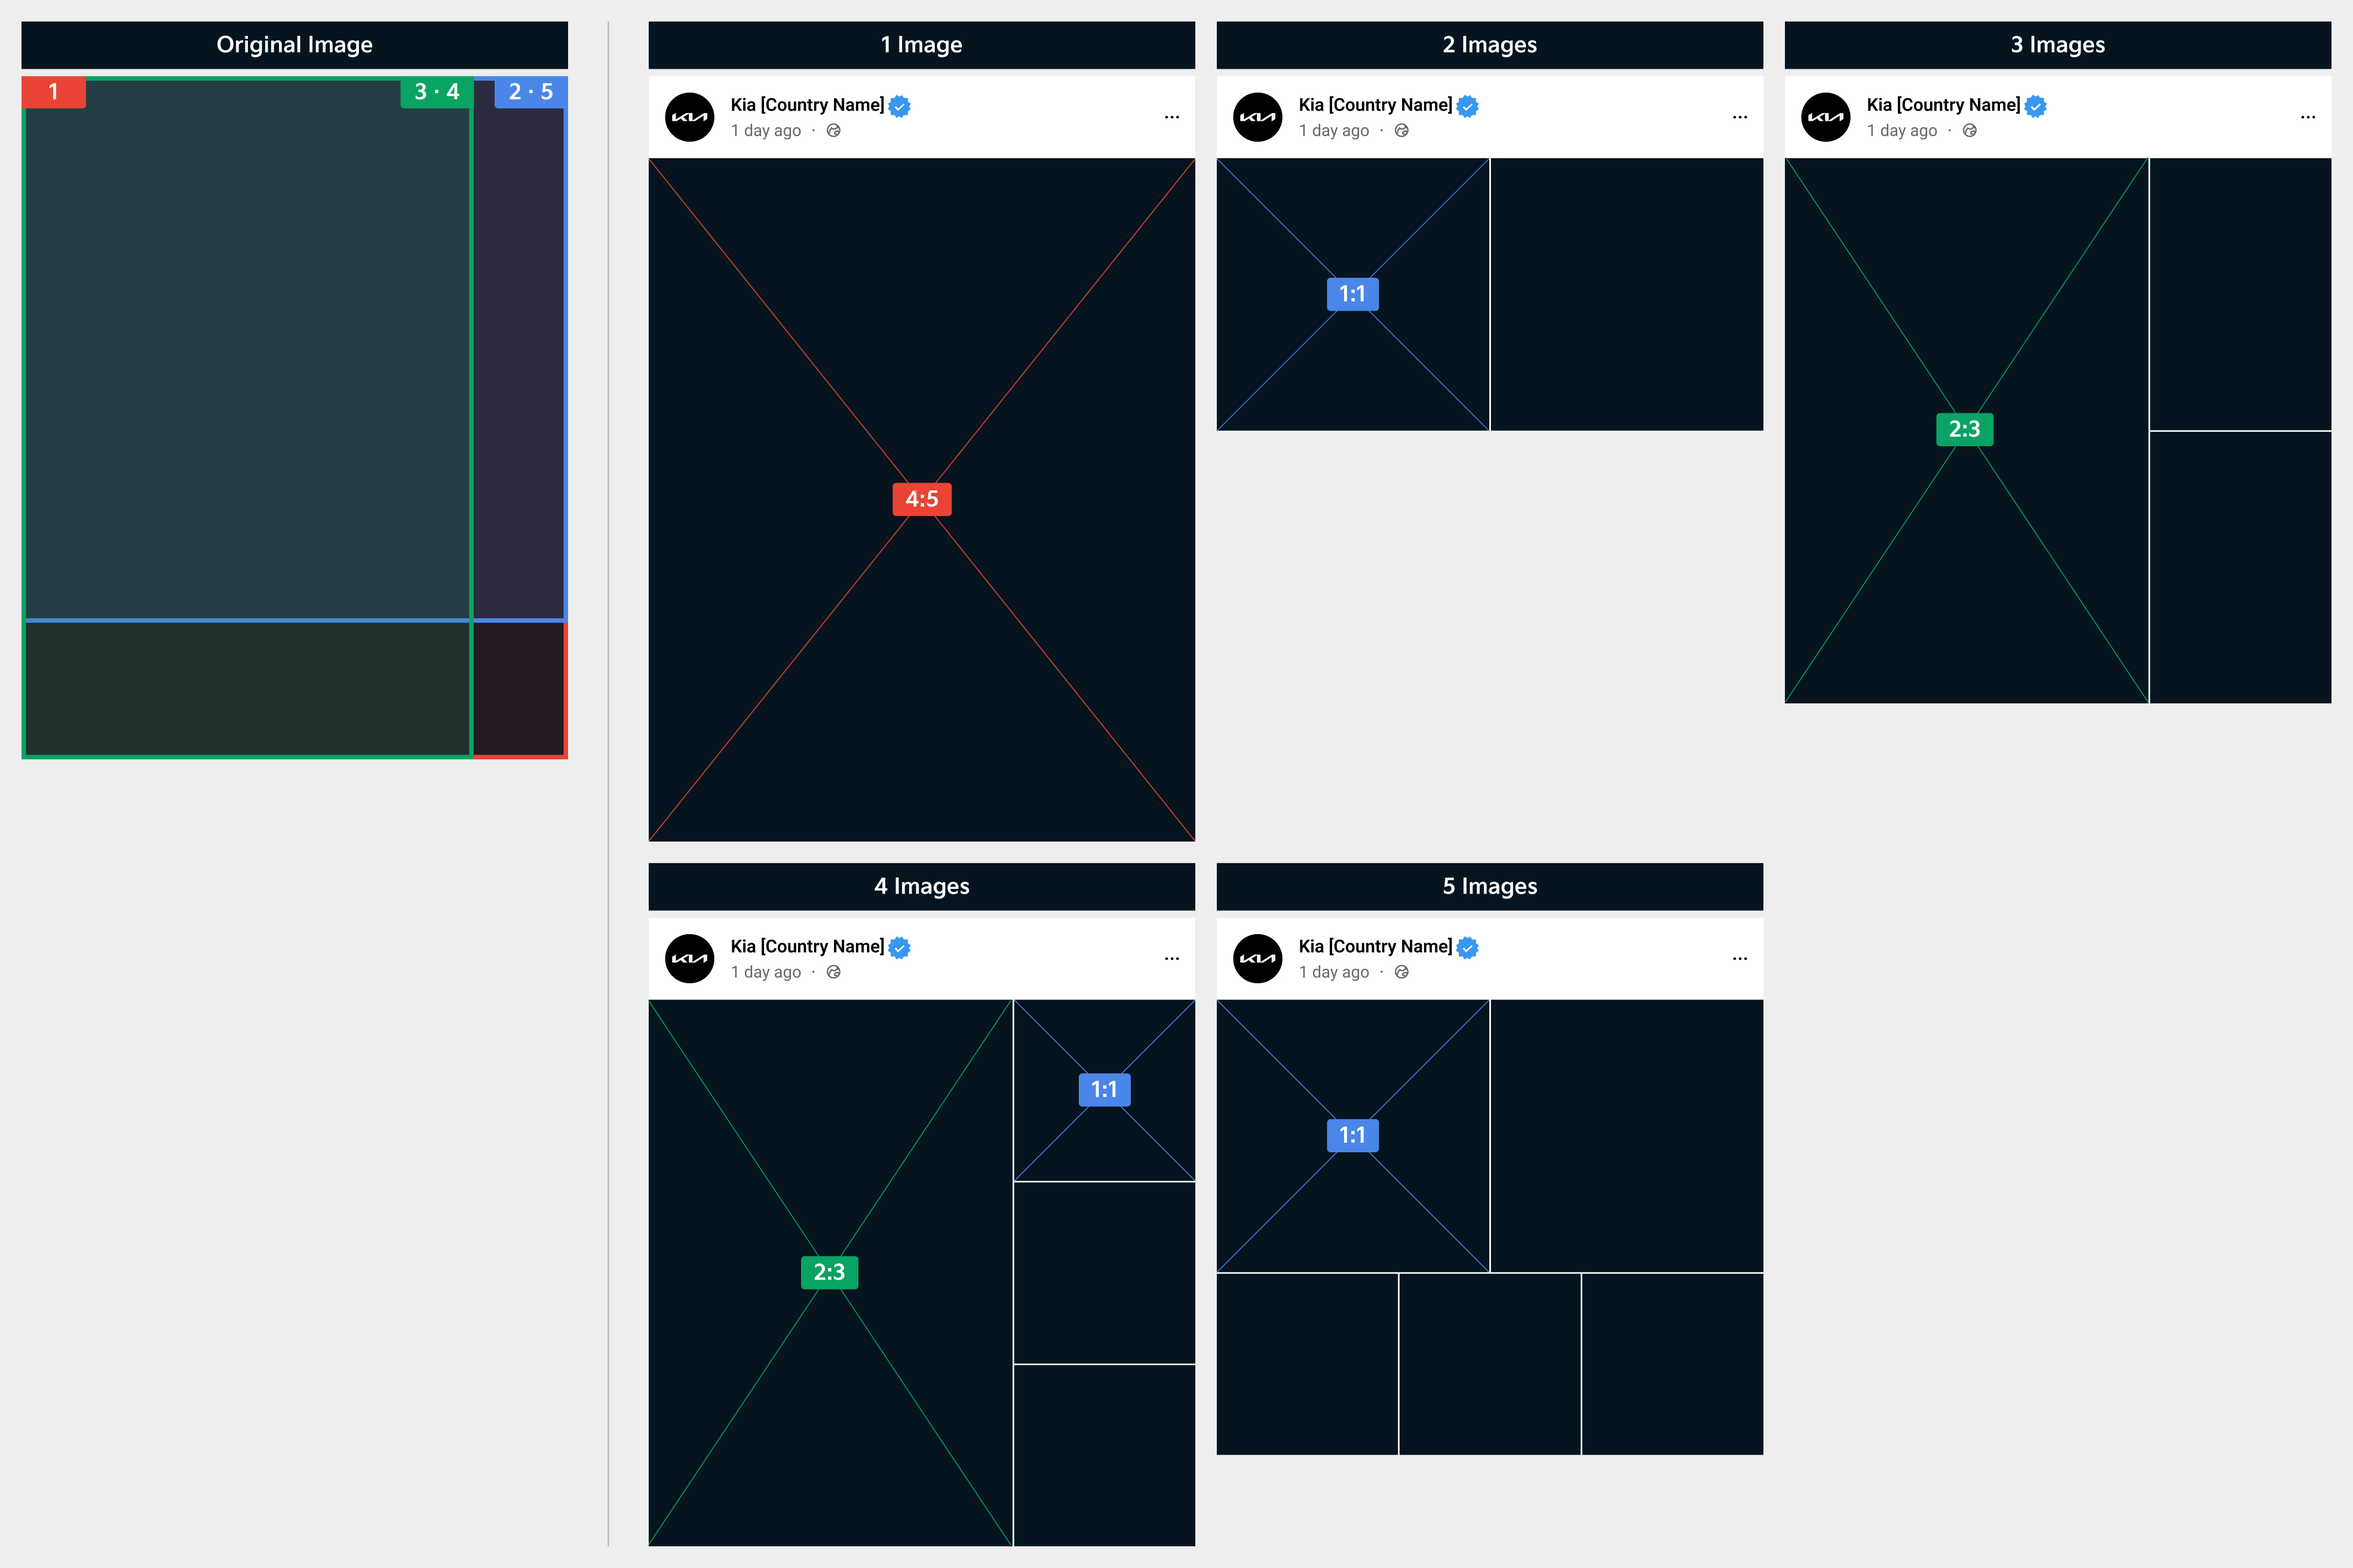
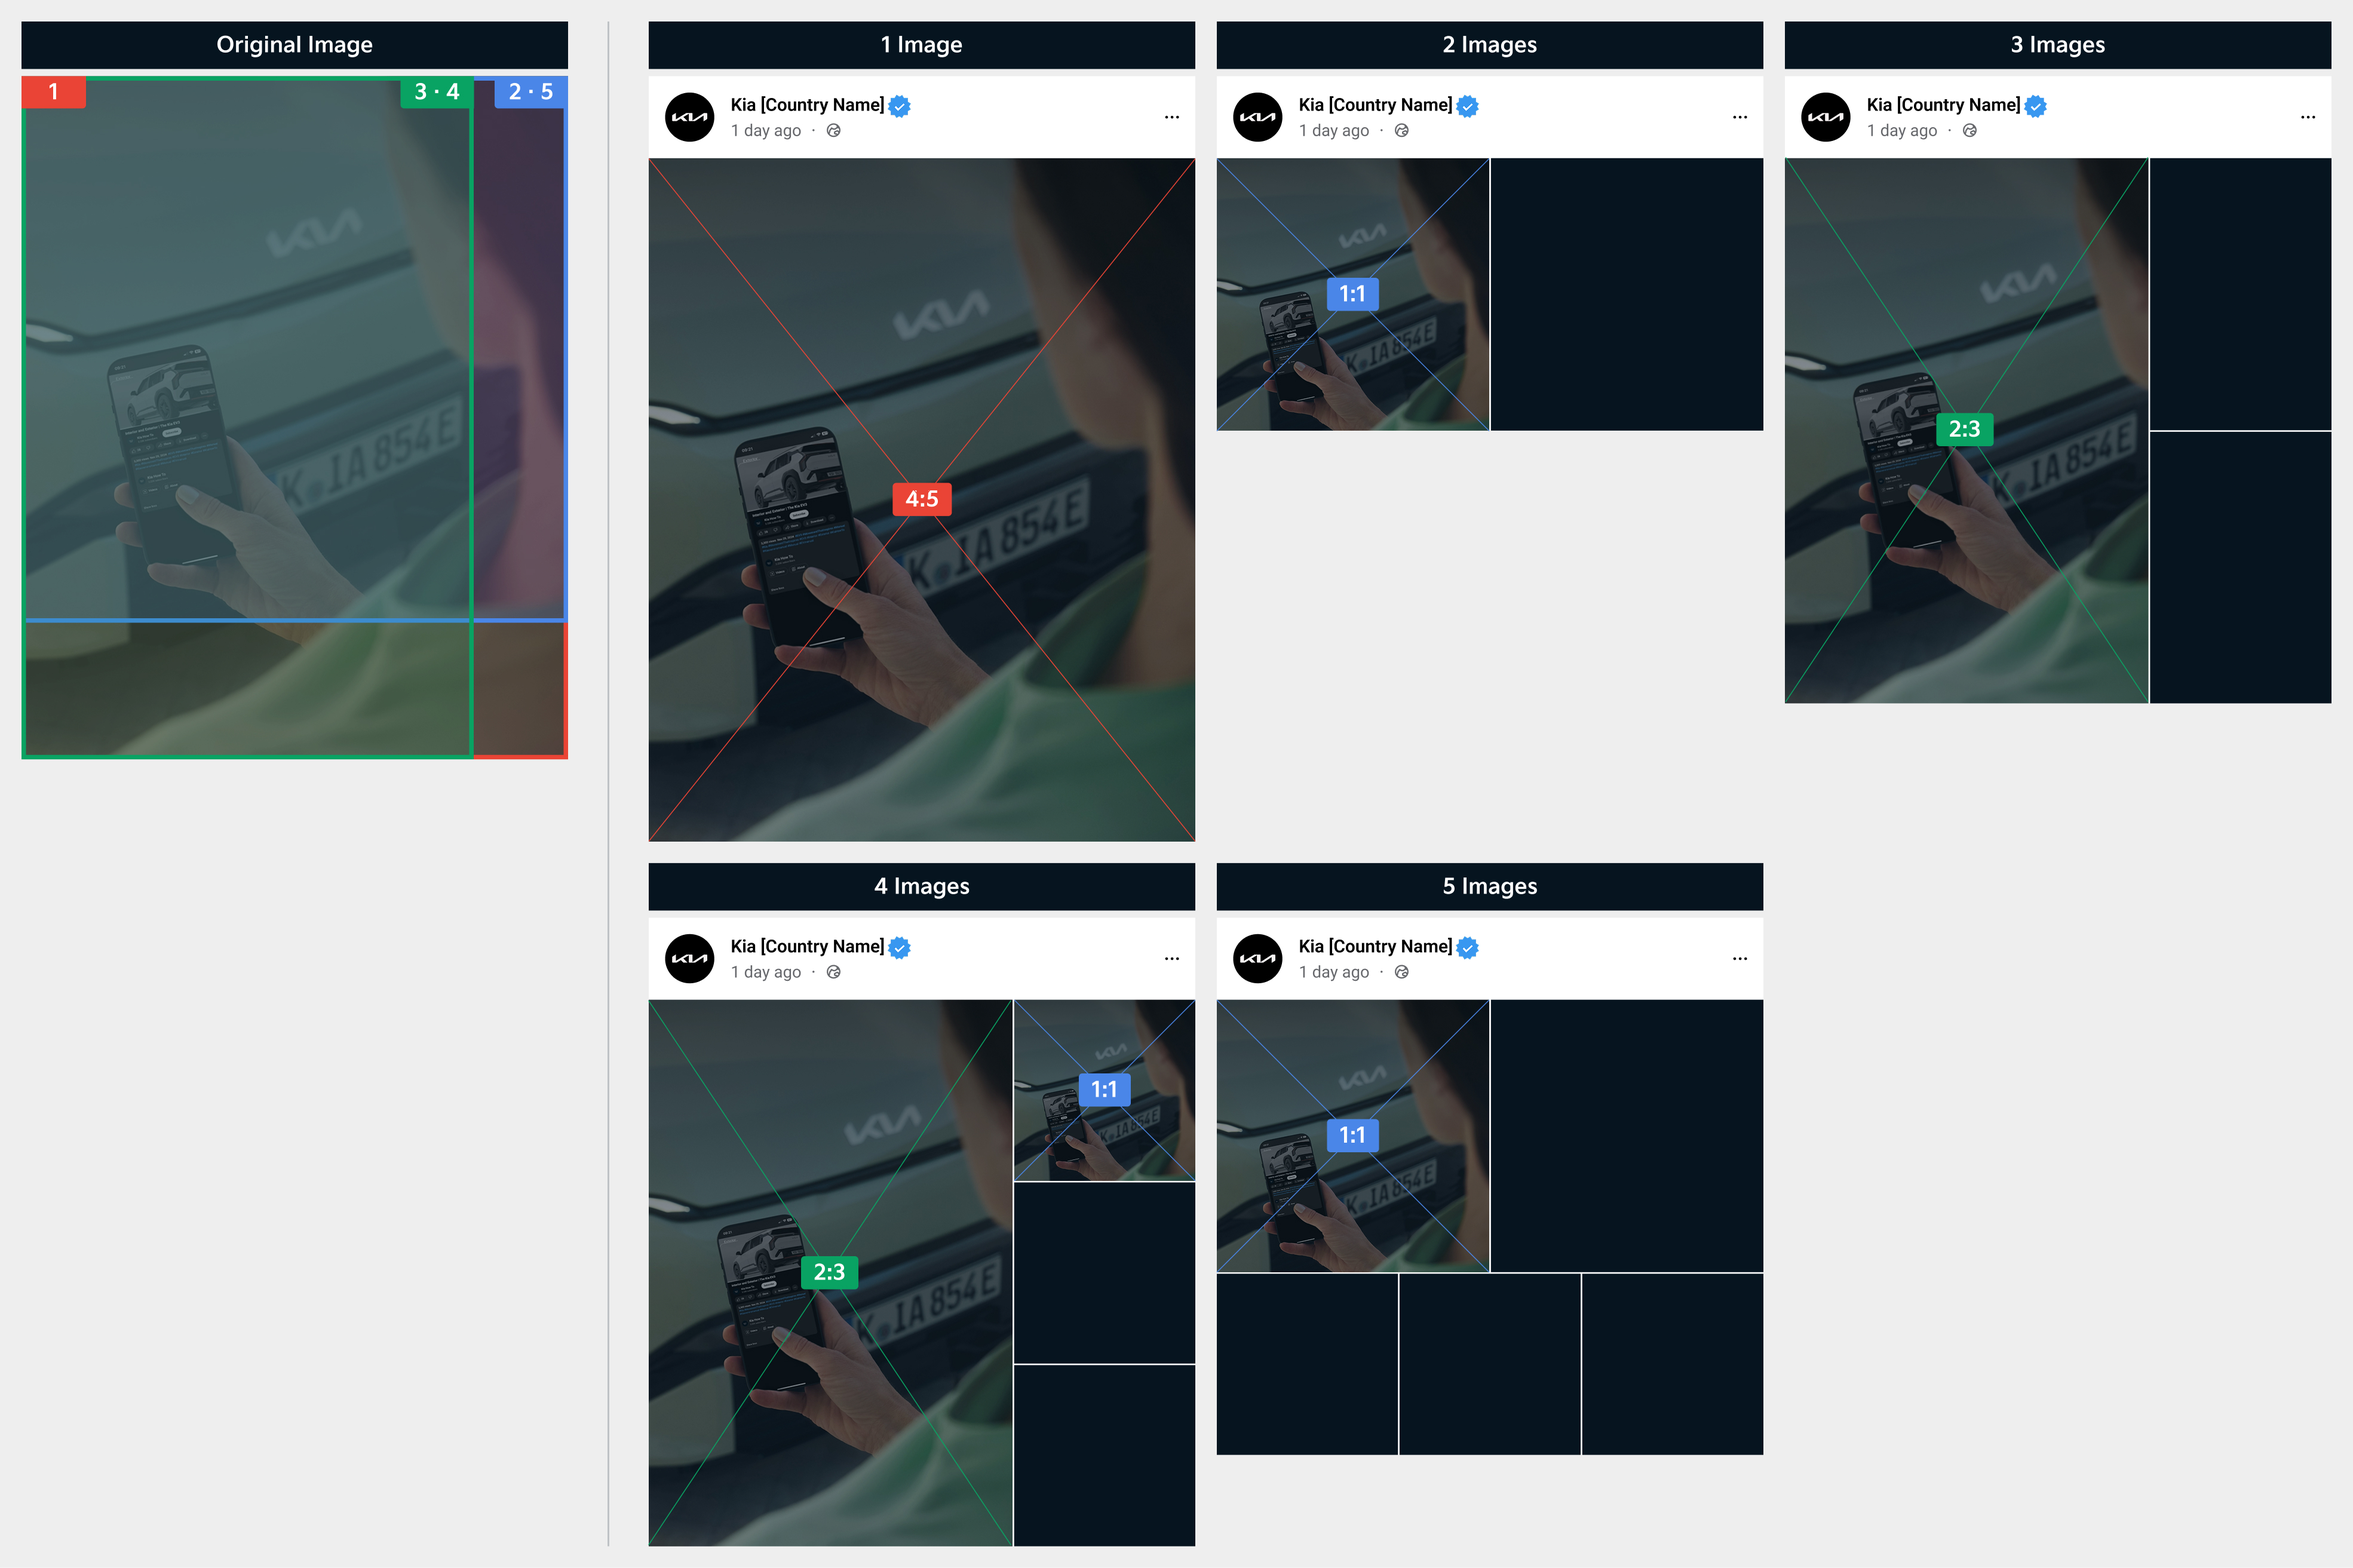
GITBOOK-57: No subject

Changed region(s): [[0.0, 0.0312, 0.6558, 0.5623], [0.2498, 0.6248, 0.6558, 0.9996], [0.7494, 0.0937, 0.9368, 0.4686]]

diff --git a/guide/production-guidelines/facebook/image.md b/guide/production-guidelines/facebook/image.md
@@ -31,11 +31,15 @@ It is displayed in its original aspect ratio (4:5).
 
 <figure><img src="../../../.gitbook/assets/FB-image-single.jpg" alt=""><figcaption></figcaption></figure>
 
+<figure><img src="../../../.gitbook/assets/ex-FB-image-2&#x26;5.jpg" alt=""><figcaption></figcaption></figure>
+
 #### Two or Five Images
 
 An original image (4:5) is displayed in a 1:1 aspect ratio.
 
 <figure><img src="../../../.gitbook/assets/FB-image-2&#x26;5.jpg" alt=""><figcaption></figcaption></figure>
+
+<figure><img src="../../../.gitbook/assets/ex-FB-image-2&#x26;5.jpg" alt=""><figcaption></figcaption></figure>
 
 #### Three or Four Images
 
@@ -46,6 +50,8 @@ An original image (4:5) is displayed in a 2:3 aspect ratio.
 {% hint style="info" %}
 You can place text in all areas except for the margin and text is recommended to be left- or center-aligned.
 {% endhint %}
+
+<figure><img src="../../../.gitbook/assets/ex-FB-image-3&#x26;4.jpg" alt=""><figcaption></figcaption></figure>
 
 ***
 
